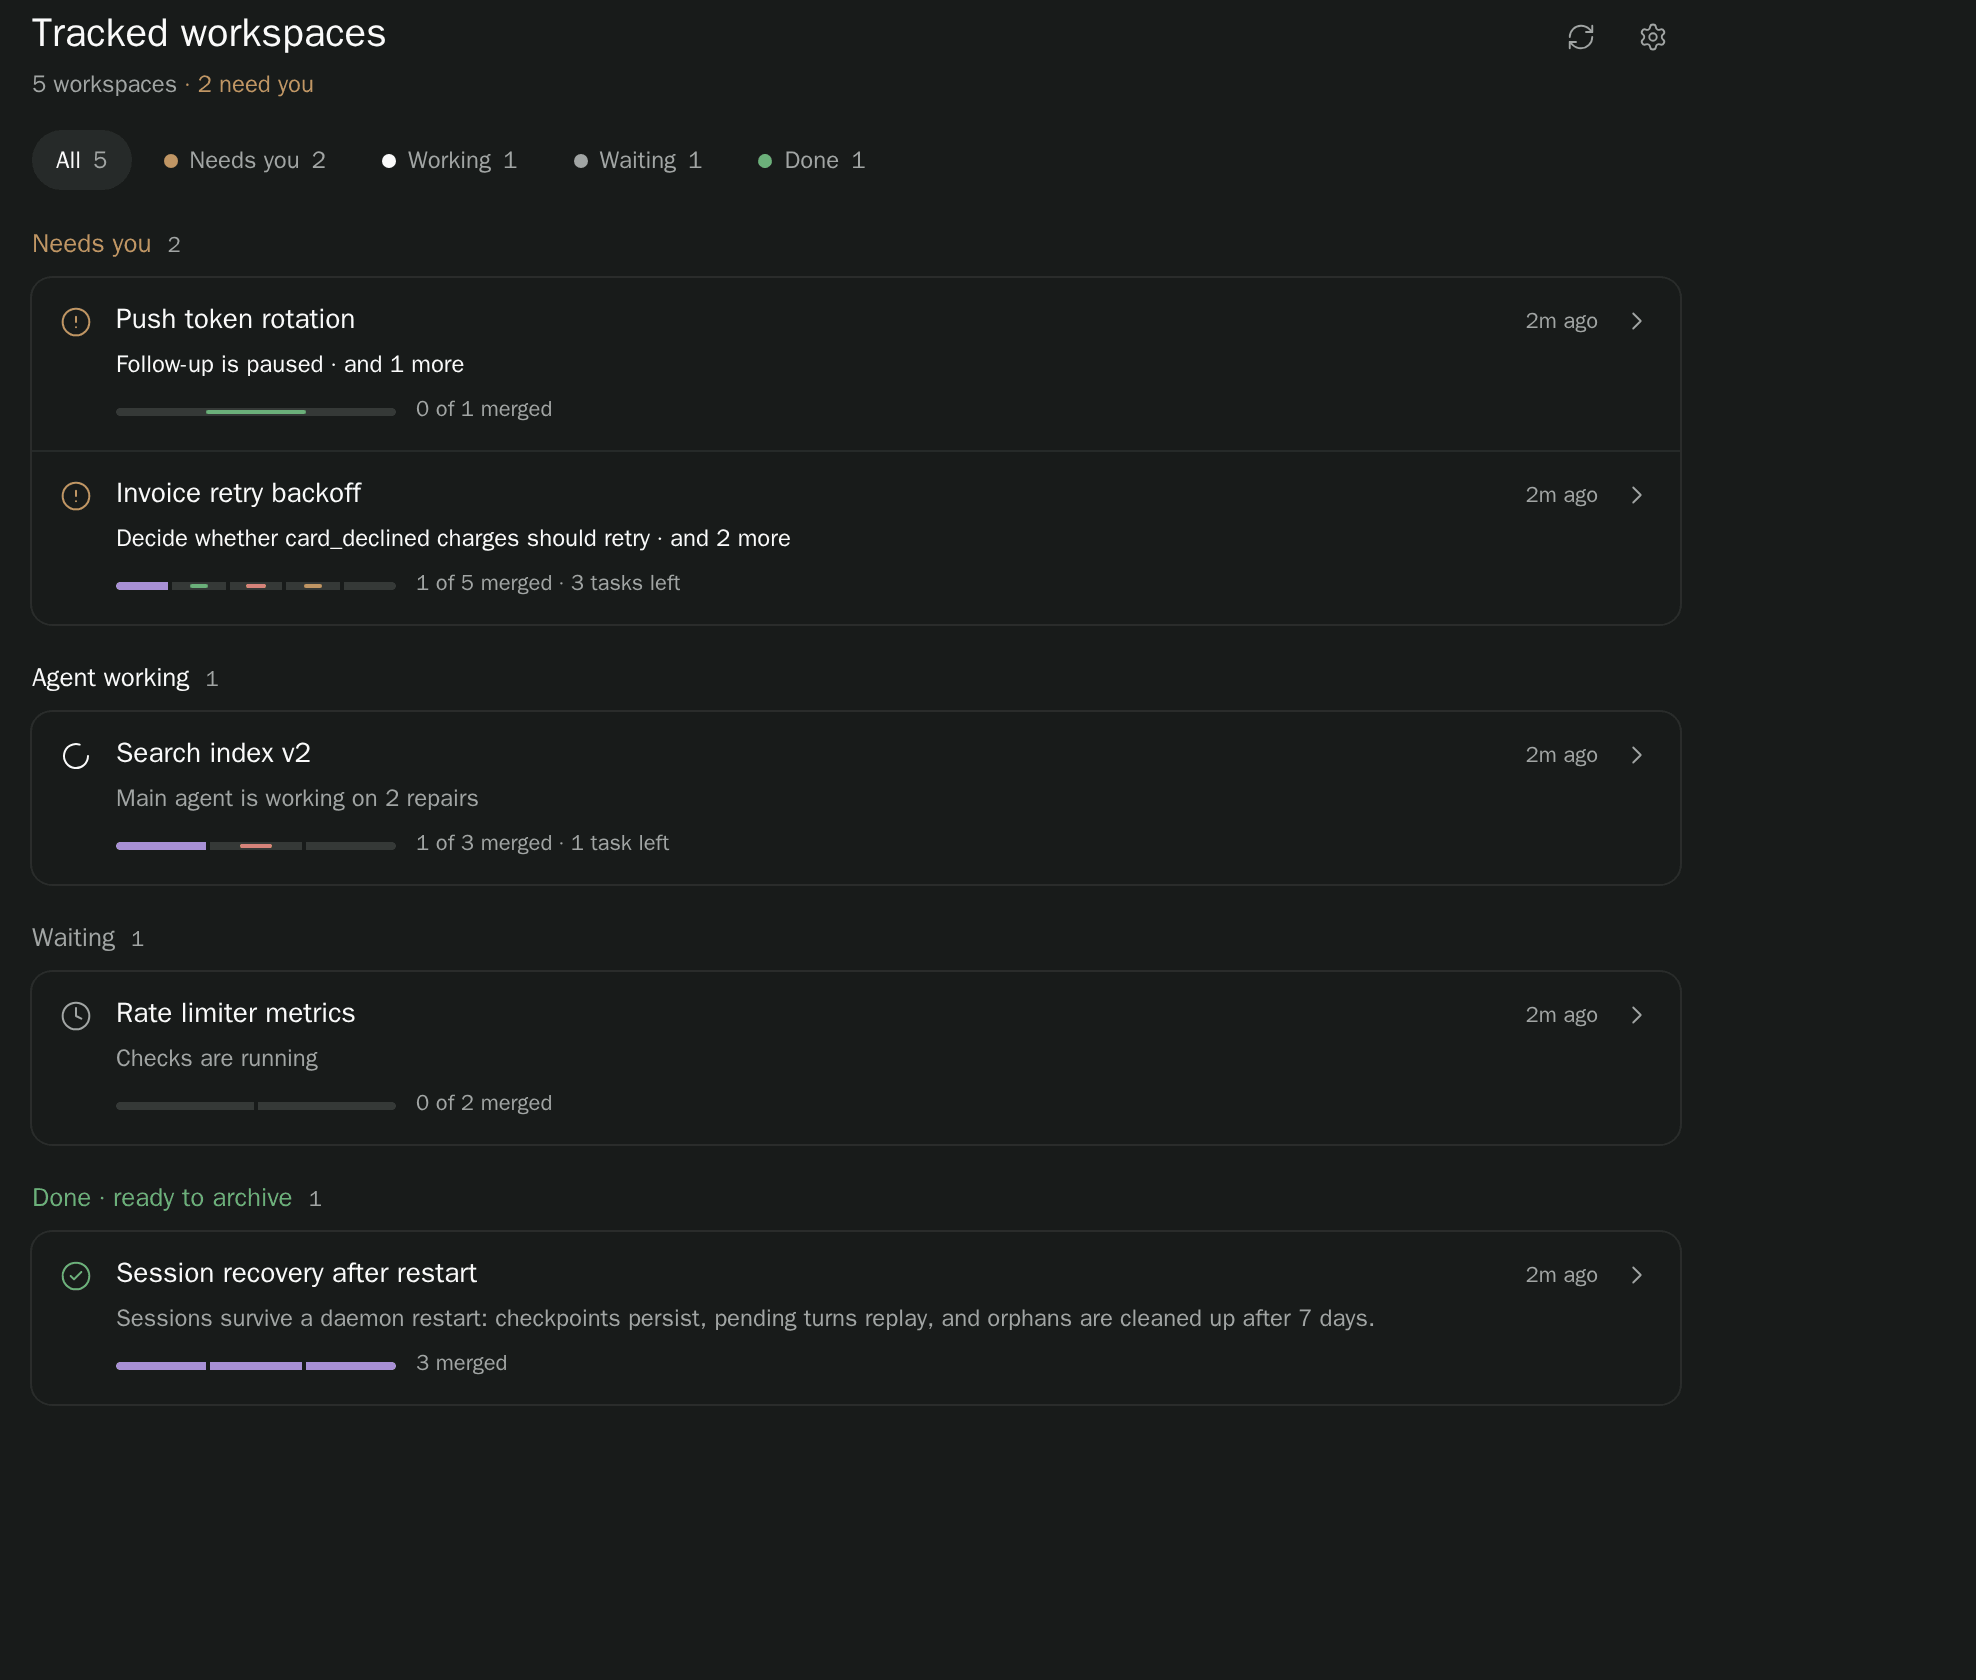
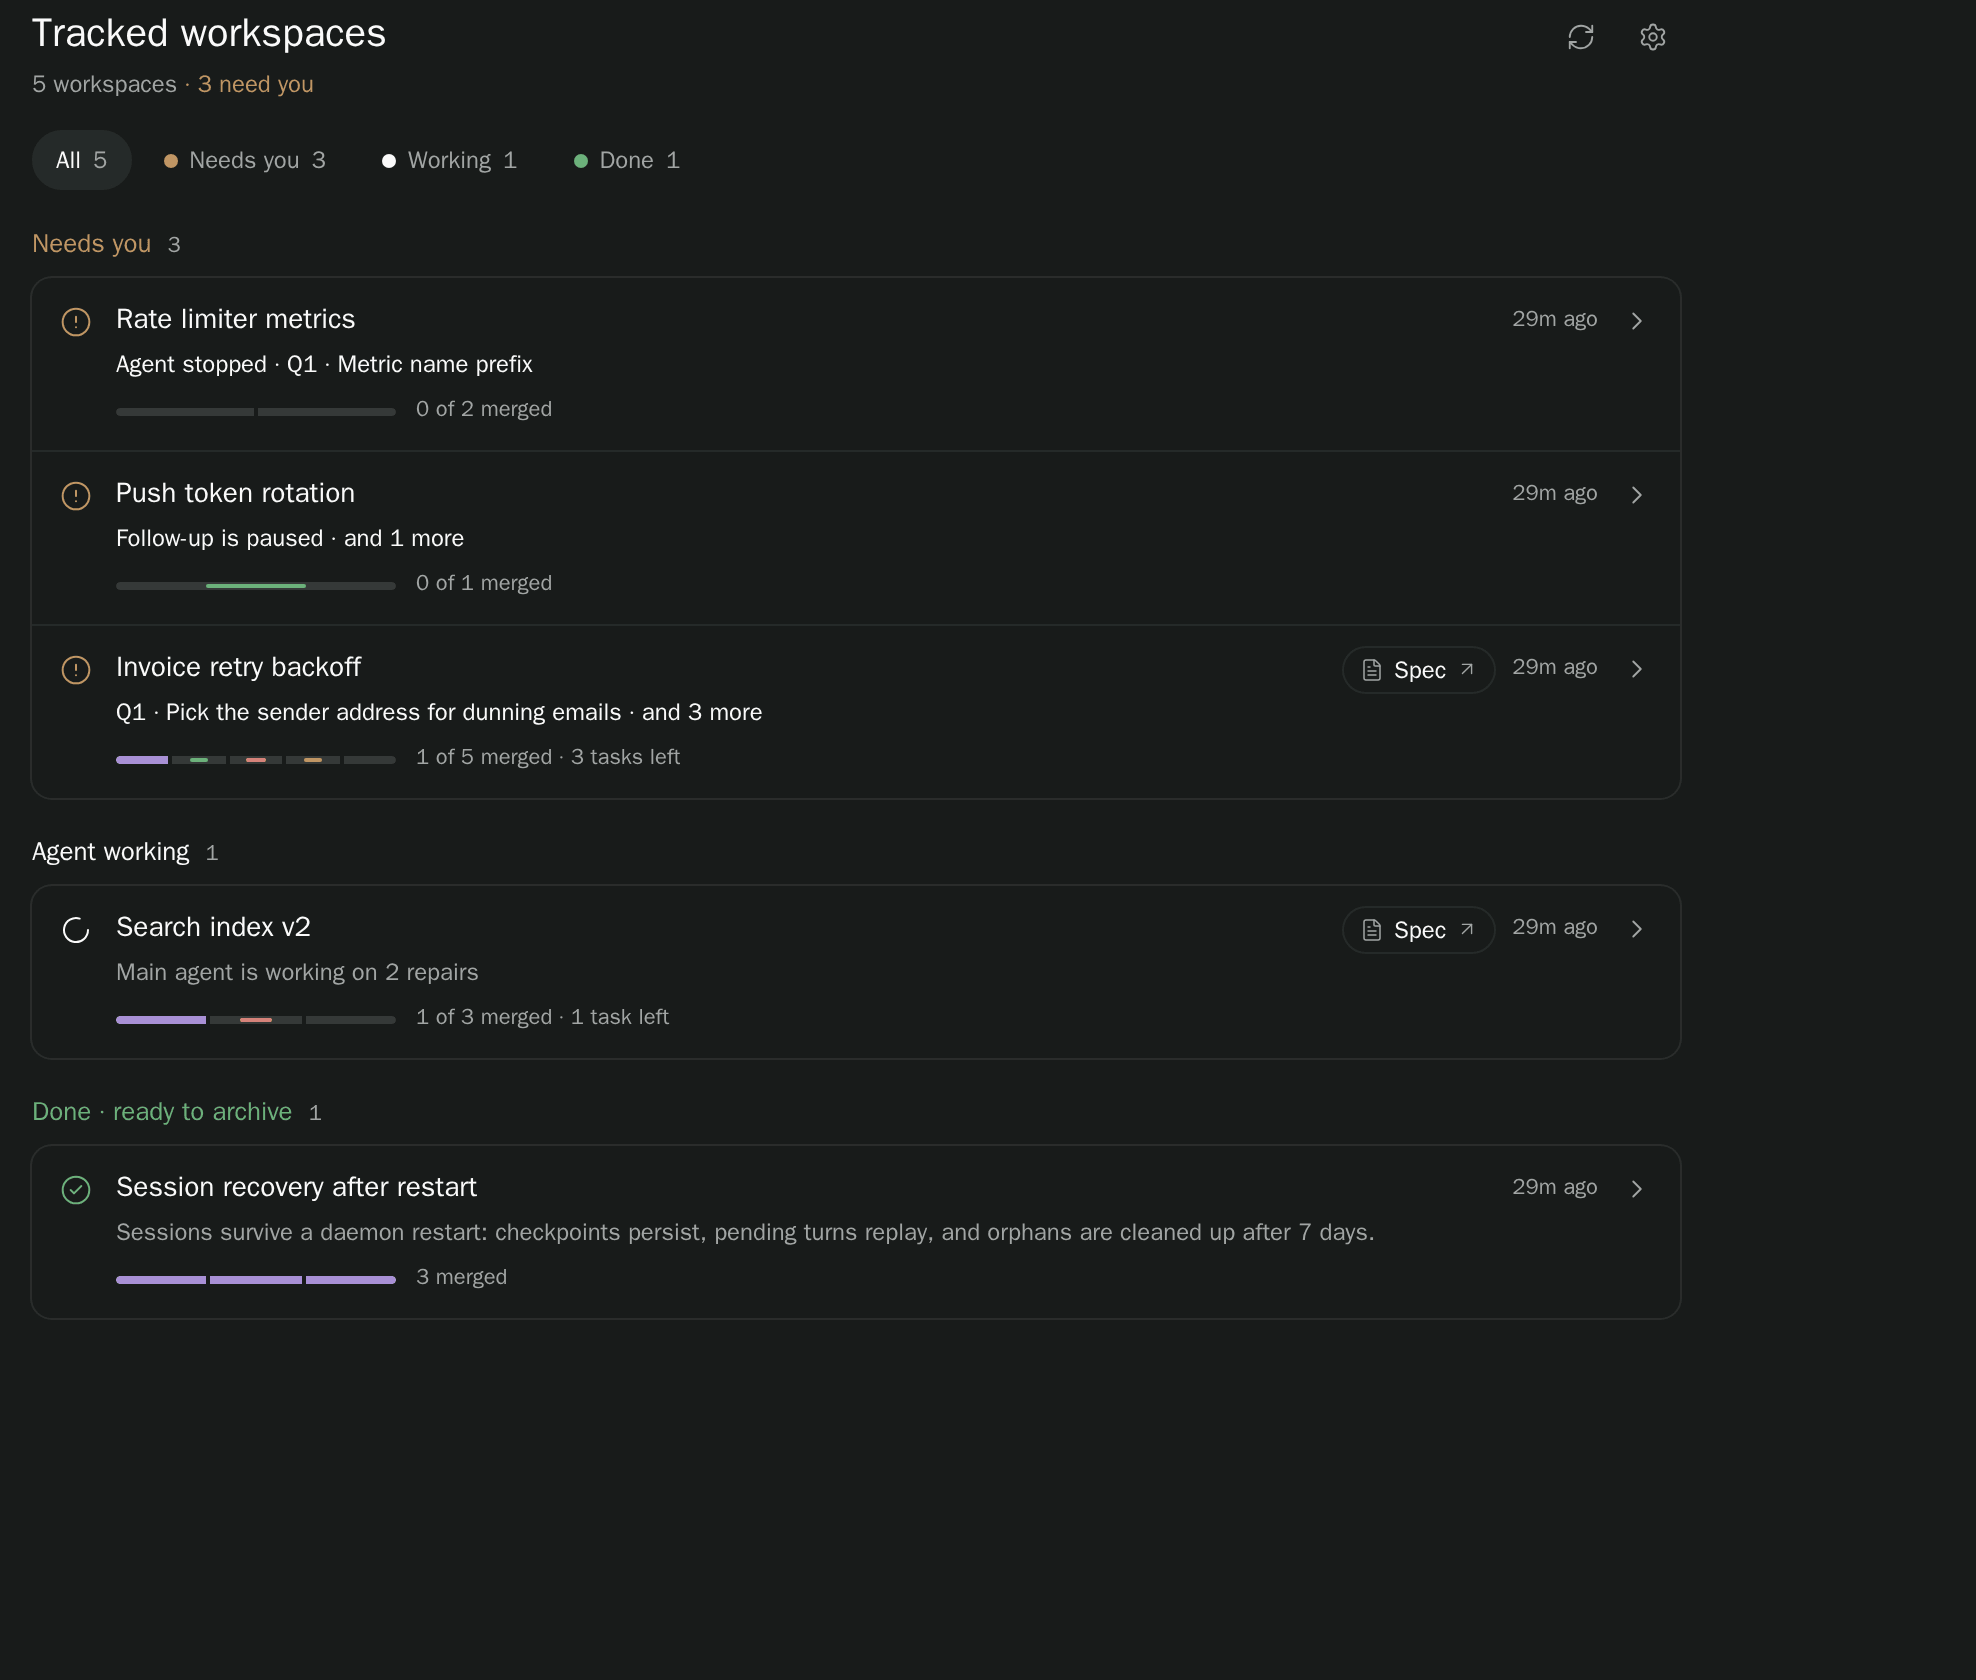
docs: questions, spec link and larger view media and verification
Regenerated the README and registry media from the isolated harness with
synthetic data: a hero with questions and the Spec chip, a questions image,
the pill stepper, the larger view, chat rows with an answer card, the
overview and phone views. Adds a verification entry.

diff --git a/docs/verification.md b/docs/verification.md
@@ -101,3 +101,36 @@ preferences gained `enable_composer_pill` with a default, so older saved documen
   card were reviewed in code only.
 - The manual browser scripts under `scripts/check-*.mjs` (other than `check-install.mjs`) still target
   the previous panel's labels and need updating before their next use.
+
+
+## Questions, spec links, activity and the larger view (unreleased, 2026-11-04)
+
+Agents can ask the developer questions (`ask_question`, `record_answer`, `withdraw_question`) and
+register the workspace's spec link (`set_spec`); the panel gained question rows and a dialog, a pill
+that steps through questions, an Activity card, a Spec chip and sheet, and a larger view. Saved
+states without `questions`, `spec` or `artifacts` parse with empty defaults; blocked tasks are
+mirrored as questions without changing the task. Question tools stay with the main agent, like goal,
+task and completion authority; contributor sessions keep PR registration, status and sync only.
+
+- `npm run verify`: TypeScript, 190 behaviour tests (new: question validation and main-agent
+  authority, unique refs, mode instructions, record/withdraw ownership, developer send/copy/resend,
+  answer message round trip, blocked-task mirroring and re-blocking, Done blockers, delivery sent /
+  queued-then-sent / unconfirmed-never-retried / Copy-never-sends / reload marks interrupted sends
+  unconfirmed, spec detection from Artifact publish receipts only, spec precedence developer > agent
+  > detection with remove and reset, persistence through discovery, activity ordering and durations,
+  needs-you ordering with stop-mode questions, chat rows and answer cards) and the button lifecycle
+  regression pass.
+- `npm run test:install`: passes with 12 native MCP tools for main agents, 6 for recovery and 3 for
+  contributors.
+- In the isolated harness (separate Paseo home, demo provider, fake `gh`), a real answer was sent to
+  the demo agent and arrived as a user message; spec detection picked the twice-published artifact
+  from a real timeline scan over a once-published one. Every new state was rendered at 1440×1000 and
+  390×844 in light and dark, the larger view also at 1024: question rows, dialog (unselected, picked
+  with a note, free-text task question, answered), pill stepper (two questions, single stop-mode
+  question, phone sheet), Activity timeline and Questions tabs, spec row and sheet (agent-registered
+  and detected with another artifact), stop-mode panel, overview with Spec chips, question mode
+  setting and chat rows. An overflow scan found no clipped text or horizontal scroll.
+- Not captured: the "may be out of date" header marker and the queued and unconfirmed delivery
+  states in the dialog (covered by unit tests). Answers to the demo agent after a plugin reload stay
+  unconfirmed because the demo provider times out its session refresh; the real Paseo path wasn't
+  exercised against a live agent.
